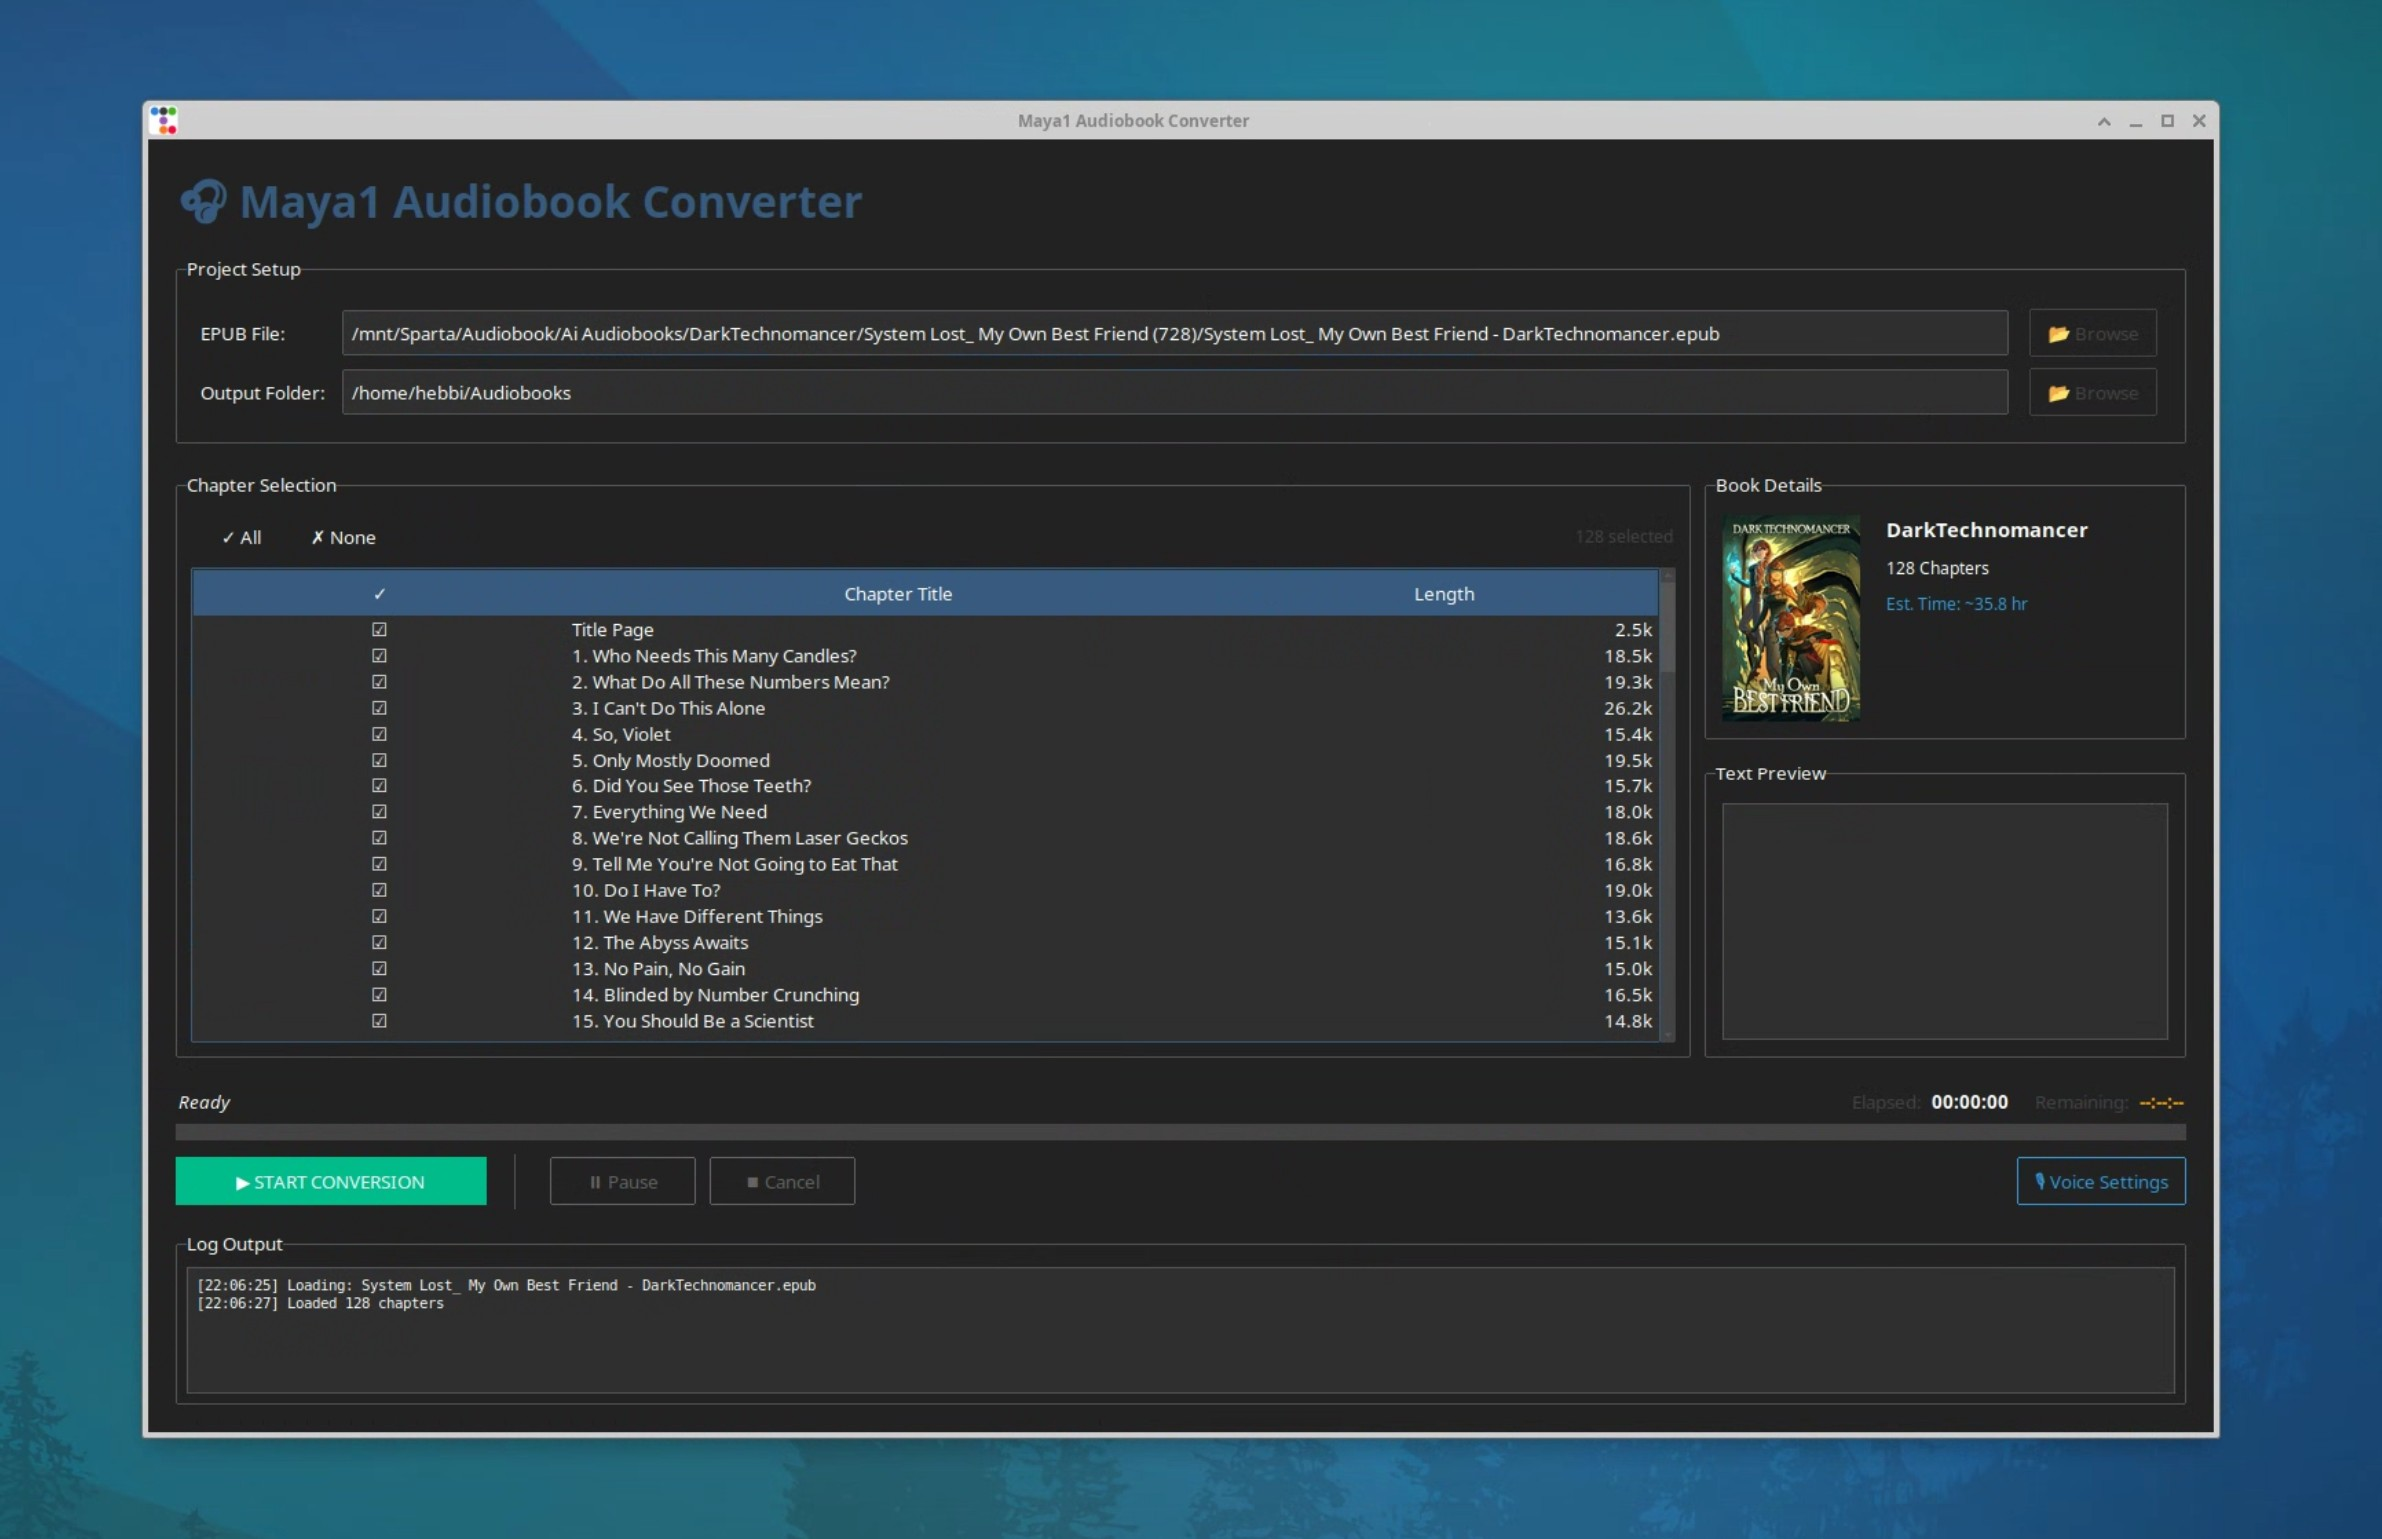
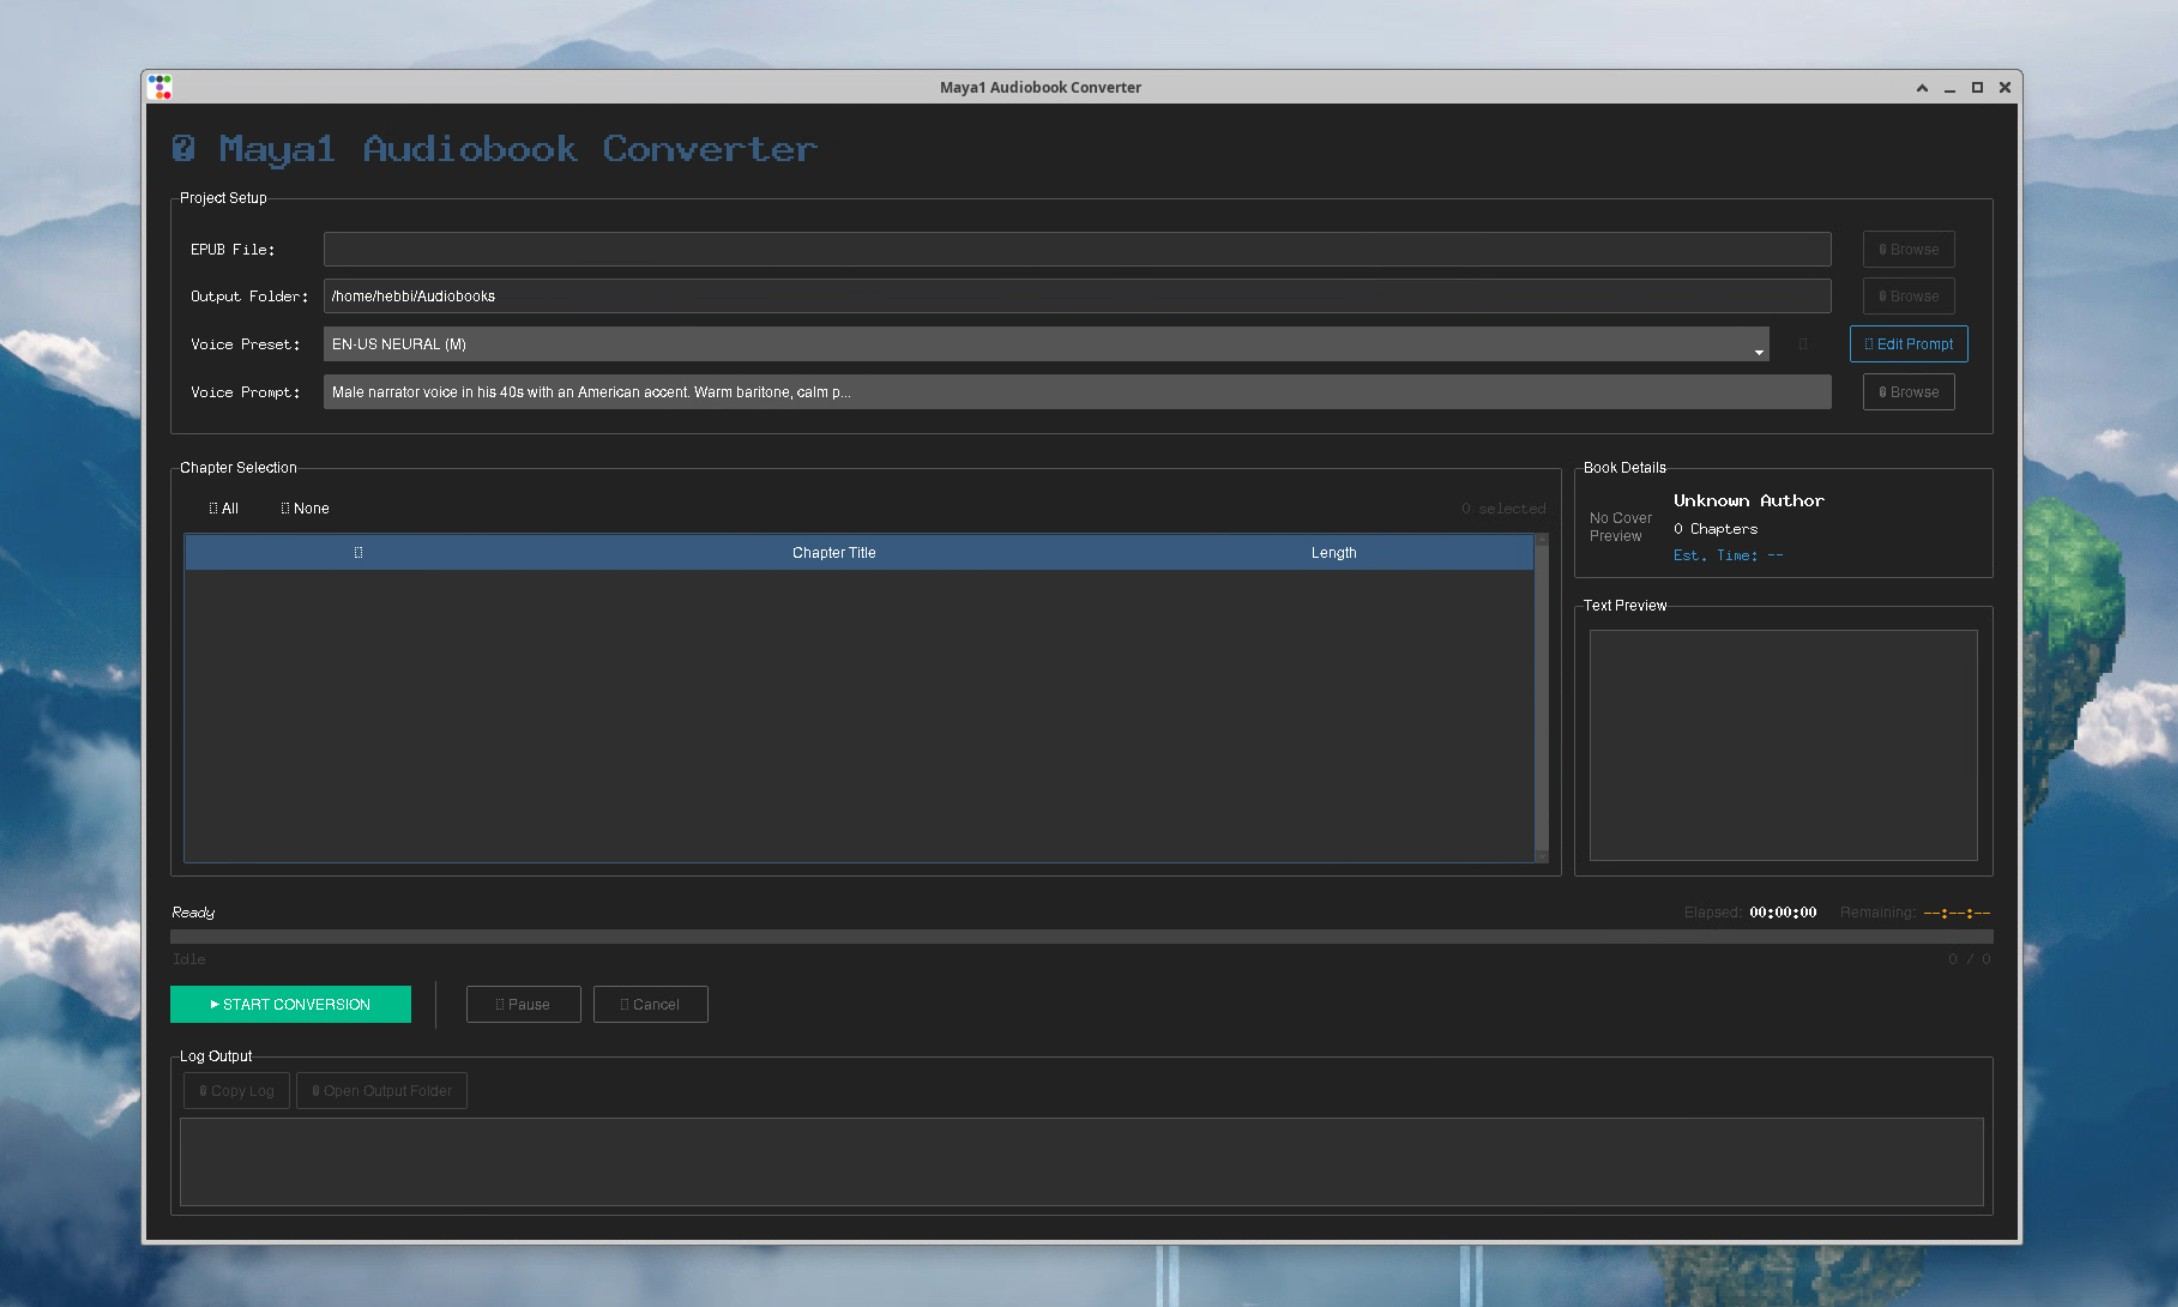
feat: Display all voice presets with engine prefixes in a unified UI.

diff --git a/main.py b/main.py
@@ -852,16 +852,26 @@ class AudiobookApp(ttk.Window):
                     self.resumable_progress = None
 
     def init_voice_presets(self):
-        """Initialize voice preset UI and defaults based on engine."""
-        engine = self.config_manager.get_default_engine()
-        presets = get_filtered_presets(engine)
+        """Initialize voice preset UI with all available voices (Unified)."""
+        # Load all presets regardless of default engine
+        presets = get_filtered_presets(None)
 
-        self.voice_preset_ids = [p["id"] for p in presets]
-        self.voice_preset_labels = [p["label"] for p in presets]
+        self.voice_preset_ids = []
+        self.voice_preset_labels = []
+
+        for p in presets:
+            self.voice_preset_ids.append(p["id"])
+            # Add engine prefix for clarity
+            engine_prefix = "[Maya1] " if p.get("engine") == "maya1" else "[Chatterbox] "
+            self.voice_preset_labels.append(f"{engine_prefix}{p['label']}")
+
         self.voice_preset_combo.configure(values=self.voice_preset_labels)
 
         # Try to restore pending preset or default
         target_id = getattr(self, "_pending_voice_preset_id", None)
+
+        if not target_id:
+            target_id = self.config_manager.get("voice_preset_id")
 
         if target_id and target_id in self.voice_preset_ids:
             idx = self.voice_preset_ids.index(target_id)
